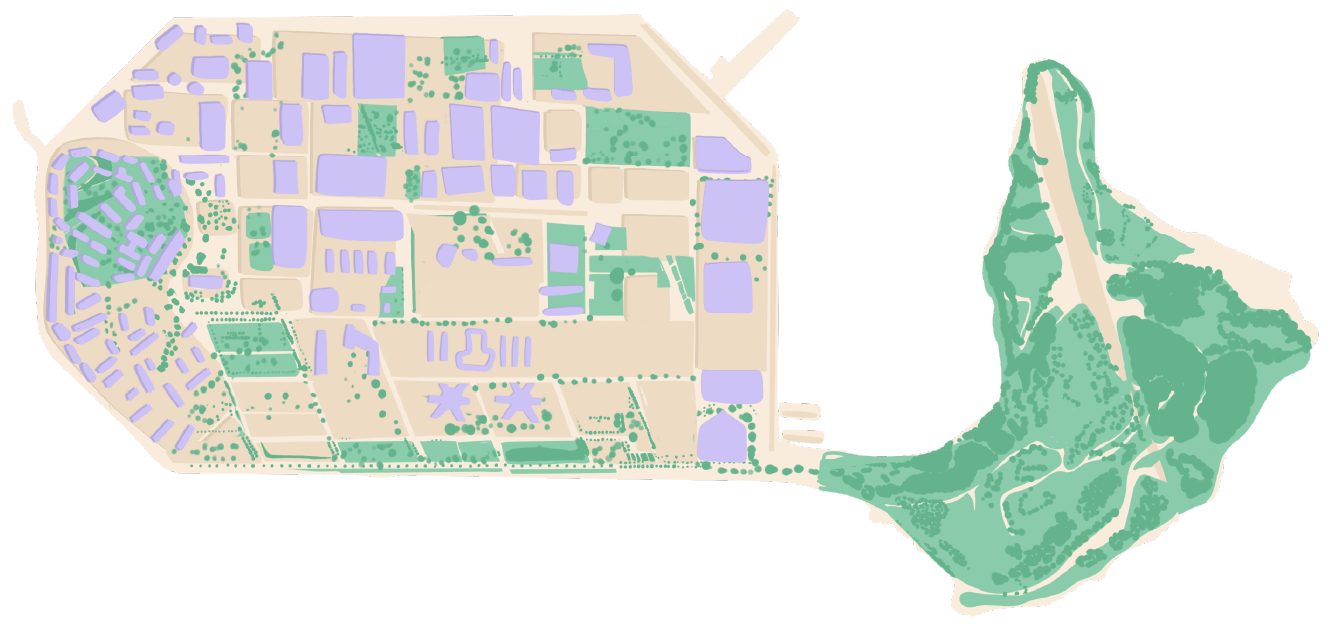
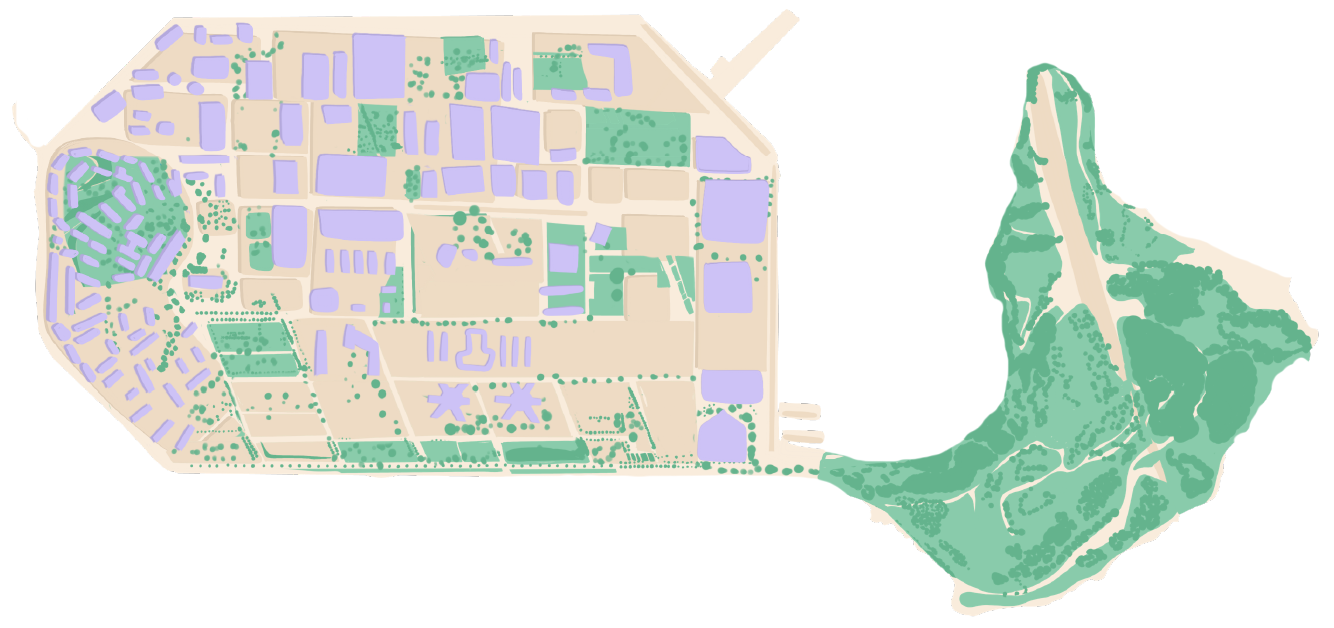
updated intro narrative

diff --git a/js/map.js b/js/map.js
@@ -15,6 +15,8 @@ let ground, map,medBLue,litBlue, groupSea,mapGroup, eggs;
 //INTERACTIVE
 let eggTween= []; 
 let lowerFog = false; 
+let zRotation; 
+//DOM ELEMENTS
 const canvas = document.getElementById("myCanvas");
 var loadLine = document.getElementById("loadLine"); 
 var num = document.getElementById("num");
@@ -22,25 +24,34 @@ var labels = document.getElementById("labels");
 var load = document.getElementById("loading"); 
 var titles = document.querySelectorAll(".title"); 
 
+// function mapWindow(input, in_min, in_max, out_min, out_max) {
+//   return (input - in_min) * (out_max - out_min) / (in_max - in_min) + out_min;
+// }
+Number.prototype.map = function (in_min, in_max, out_min, out_max) {
+  return (this - in_min) * (out_max - out_min) / (in_max - in_min) + out_min;
+}
+
 manager.onLoad = function ( ) {
-	console.log('Loading Complete!');
+  console.log('Loading Complete!');
   load.classList.add('fadeAway');
-lowerFog =true; 
-clouds.forEach(cloud =>{
-  let newcloudPos;
-  let ran = Math.random(); 
-  if(cloud.position.x>0){
-    newcloudPos = new THREE.Vector3( cloud.position.x+ Math.random()*canvas.clientWidth*2 +canvas.clientWidth*.5 , cloud.position.y,  cloud.position.z+Math.random()*( -canvas.clientHeight*2)-canvas.clientHeight*.5);
-  }
-  else{
-    newcloudPos = new THREE.Vector3(  cloud.position.x+Math.random()*(-canvas.clientWidth*2)-canvas.clientWidth*.5 , cloud.position.y,  cloud.position.z+Math.random()*canvas.clientHeight*2+canvas.clientHeight*.5); 
-  }
-  new TWEEN.Tween(cloud.position).to( newcloudPos, 5000 ).delay(2000) 
-  .easing(TWEEN.Easing.Quadratic.InOut).onComplete(()=>{
-    labels.style="display:block";  
-    cameraBegin(camera); 
-  }).start();
-})
+  lowerFog =true; 
+  let windowRatio =window.innerWidth/window.innerHeight; 
+  zRotation = windowRatio.map(.75, 2.75, .000010,.000050); 
+  clouds.forEach(cloud =>{
+    let newcloudPos;
+    let ran = Math.random(); 
+    if(cloud.position.x>0){
+      newcloudPos = new THREE.Vector3( cloud.position.x+ Math.random()*canvas.clientWidth*2 +canvas.clientWidth*.5 , cloud.position.y,  cloud.position.z+Math.random()*( -canvas.clientHeight*2)-canvas.clientHeight*.5);
+    }
+    else{
+      newcloudPos = new THREE.Vector3(cloud.position.x+Math.random()*(-canvas.clientWidth*3)-canvas.clientWidth*.5 , cloud.position.y,  cloud.position.z+Math.random()*canvas.clientHeight*2+canvas.clientHeight*.5); 
+    }
+    new TWEEN.Tween(cloud.position).to( newcloudPos, 5000 ).delay(2000) 
+    .easing(TWEEN.Easing.Quadratic.InOut).onComplete(()=>{
+      labels.style="display:block";  
+      cameraBegin(camera); 
+    }).start();
+  })
 };
 manager.onStart = function ( url, itemsLoaded, itemsTotal ) {
 	console.log( 'Started loading file: ' + url + '.\nLoaded ' + itemsLoaded + ' of ' + itemsTotal + ' files.' );
@@ -56,7 +67,7 @@ function loadScreen(){
     basicScene(); 
     makeClouds(); 
     basePlane()
-    // makeMapElements(); 
+    makeMapElements(); 
     animate();
 }
 window.addEventListener( 'resize', onWindowResize );
@@ -116,7 +127,7 @@ function makeClouds(){
       clouds[i] = object;
       scene.add(object);
     }
-    makeMapElements(); 
+    // makeMapElements(); 
     return clouds; 
   }
   function basePlane(){
@@ -144,7 +155,7 @@ function makeClouds(){
   function makeMapElements(){
     //ADD BAY AREA LAND 
     let landT = loader.load("../illustrations/landMass.png"); 
-    var planeGeometry3 = new THREE.PlaneGeometry(5694.26, 3200, 100, 100);
+    var planeGeometry3 = new THREE.PlaneGeometry(6750.4,3179.2, 100, 100);
     var planeMaterial3= new THREE.MeshStandardMaterial({
       map: landT,
       transparent: true,
@@ -153,7 +164,7 @@ function makeClouds(){
      landMass = new THREE.Mesh(planeGeometry3, planeMaterial3);
      landMass.rotation.x = -90 * (Math.PI / 180);
      landMass.rotation.z =  55 * (Math.PI / 180);
-     landMass.position.set(45, -5, -280);
+     landMass.position.set(360, -5, -750);
     scene.add(landMass);
 //WATER TEXTURES
     const mediumBLue = loader.load("../textures/waterTextured.png");
@@ -270,7 +281,7 @@ title.classList.add("fadeAway2");
     .onUpdate(()=>{
       counter++; 
       if(camera.rotation.z>=0){
-   camera.rotation.z -=.00001 *counter* (Math.PI / 180); 
+   camera.rotation.z -=zRotation *counter* (Math.PI / 180); 
       }
     })
     .onComplete(() =>{

diff --git a/index.html b/index.html
@@ -17,7 +17,7 @@
             <h2>For the Deep</h2>
         </div>
         <h4>How the Design for the New Treasure<br> Island Reckons with Sea Level Rise</h4>
-        <button class="downArrow"type="button"onclick= "nextSection(ClimateMaps)">
+        <button class="downArrow"type="button"onclick= "nextSection(introNar1)">
             <img src="icons/down.svg"> 
         </button>   
     </section>
@@ -32,6 +32,16 @@
             <a href="pages/about.html">About</a>
         </button>
     </div>
+    <div id="introNar1">  
+        <div class ="stickyBlock">
+            <p id="bigPara">In 1936-37 Treasure Island (TI) was fabricated at sea level as part of the Works Progress Administration, a federal program to provide jobs and create infrastructure to help bring the U.S. out of the Great Depression.  The island’s first event was the Golden Gate International Exhibition (GGIE), a world’s fair, 1939-1940.  After the fair closed with World War II looming, the U.S. Navy transformed the island into a base, which occupied the island until the end of the 20th century.
+            <div class="imgContainer"> 
+                <img src ="media/placeholder1.jpg">
+                <p class="caption">caption caption caption caption</p>
+            </div>
+    </div>
+    </div>
+
     <section id="ClimateMaps">  
         <div class="TISLR1">
         <div id="climatTxt">
@@ -40,6 +50,7 @@
             <p>These dynamic flood maps demonstrate probable flooding on TI in the event of a 100-year storm at various points over the next quarter-century. The maps on the left and right show before and after --that is expected flooding without redevelopment, as the island has been for its first 100 years, and with the reconstruction planned by the Treasure Island Development Authority, a state agency. Use the slider to show different outcomes for future scenarios, with and without the redevelopment.</p>
             <p>Scientists expect sea levels to rise at TI by between 5 and 16 inches by 2050, and between 24 and 66 inches by 2100, depending on how quickly glaciers melt and oceans warm. The Treasure Island Development Authority (TIDA) plans redevelopment in two phases in anticipation of the rising seas. The first phase will protect the island from 16 inches of sea-level rise (SLR), expected by mid-century.  The second phase of development will protect the island from 36 inches of SLR, expected by the end of this century. </p>
             <p>The flood simulations here are run for two SLR projections. The medium scenario includes 11” of sea-level rise by 2050, which is near the middle of the range of possibilities. The high scenario anticipates 24” of SLR by 2050, which is near the high end.  A flood of this height might flow across some of planned setbacks (landscape adaptations), but would not harm any of the buildings.</p>
+            <p>A 100-year flood is a common metric that engineers and scientists use to assess flood risk. It represents a flood that has a 1% chance of occurring each year, when tides, storm surges, and tsunamis at TI are taken into account. Such an event will occur once every 100 years on average, but may not occur every century.  On the same token, it can occur several times in a single century if TI is unlucky. A 100-year flood event can cause significant loss of life, property, and infrastructure unless mitigation measures are taken, as in TIDA’s redevelopment plan.  SLR is leaving TI more vulnerable to the 100-year flood because it is increasing the baseline sea level on top of which the flood event will occur.</p>
         </div>
               <div class="modelShifter">
             <div id="scenarios">
@@ -87,8 +98,8 @@
                 <img src="icons/down.svg"> 
             </button>    -->
         </section>
-        <section id="introNar">  
-        </section>
+    <section id="introNar2">  
+    </section>
     </div>
 </body>
 

diff --git a/css/main.css b/css/main.css
@@ -328,14 +328,105 @@ right: 0%;
    width: 100%; 
    z-index: 10; 
  }
- #loading {
+/**************INTRO NARS *******************/
+.stickyBlock{
+  height: 3000px; 
+  justify-content: center; 
+}
+#bigPara{
+ position:sticky; 
+ top: 35%; 
+ width: 60%; 
+ margin: 0px auto; 
+  margin-top: 35%; 
+  margin-bottom:40%; 
+  background-color: rgba(0, 0, 0, 0) !important; 
+  font-size: 40px; 
+}
+.stickyBlock .imgContainer, .stickyBlock .verticalImg{
 position: absolute; 
-top: 35%; 
- }
- #loading h1,  #loading h2{
-  color: #0F6F84; 
- }
+display: block; 
+width: 60%; 
+left: 20%; 
+z-index: 10;  
+/* border: 1px solid red;  */
+}
+.imgContainer img{
+  width: 100%; 
+}
+.caption{
+  background-color: #0F6F84; 
+  margin-top: 8px; 
+  padding: 8px 10px; 
+}
+/*****************************************MAIN MAP********************************/
+ #loadingBar{
+   display: flex; 
+   align-items: center; 
+   margin-bottom: 10px; 
+  }
+  #loading {
+    position: absolute; 
+    top: 45%; 
+    left: 40%; 
+    display: flex; 
+    flex-direction: column; 
+    text-align: center;
+  }
+   #loadContainer{
+     width: 300px; 
+   }
+   #loading h1{
+     font-weight: 200; 
+   }
+   #loading h1,  #loading h2{
+    color: #0F6F84; 
+   }
+   #loadLine{
+     border-bottom: 3px solid #0F6F84; 
+     height: 3px; 
+   }
+   #loading h2{
+     font-size: 20px; 
+   }
+   .fadeAway{
+      animation: fadeOut 1.5s cubic-bezier(0.165, 0.840, 0.440, 1.000) forwards;
+      animation-fill-mode: backwards;
+      opacity: 0; 
+   }
 
- #climatTxt{
-   /* border: 1px solid pink;  */
- }
+   /*******************ANIMAITON *****************/
+   @keyframes fadeOut {
+    0%   {opacity:1; }
+    100% {opacity:0}
+  }
+  @keyframes fadeIn {
+    0%   {opacity:0; }
+    100% {opacity:1}
+  }
+  @keyframes scaleUp {
+    0% {
+      transform:scale(.7) translateY(1000px);
+      opacity:0;
+    }
+    100% {
+      transform:scale(1) translateY(0px);
+      opacity:1;
+    }
+  }
+  @keyframes crescendo {
+    0% {
+        transform: scale(1);
+    }
+    100% {
+        transform: scale(1.3);
+    }
+  }
+  @keyframes crescendo2 {
+    0% {
+        transform: scale(1);
+    }
+    100% {
+        transform: scale(1.1);
+    }
+  }

diff --git a/pages/map.html b/pages/map.html
@@ -9,16 +9,29 @@
 </head>
 <body>
     <canvas  id="myCanvas"></canvas>
+    <div class="nav" id="TopNav">
+        <button >
+            <a class="navItem" href="../index.html">
+        <img src="../icons/logo.png"> 
+            </a>
+        </button>
+        <button class="navItem">
+            <a href="pages/about.html">About</a>
+        </button>
+    </div>
     <div id="loading">
         <div id="loadingBar">
         <h1>0</h1>
+        <div id="loadContainer">
         <div id="loadLine"></div>
+        </div>
         <h1 id="num">100</h1>
         </div>
         <h2>getting things ready...</h2> 
     </div>
     <div id="labels">
-
+<h2>treasure island</h2>
+<h2>yerba buena island</h2>
     </div>
 </body>
 <script src="../js/build/three.js"></script>
